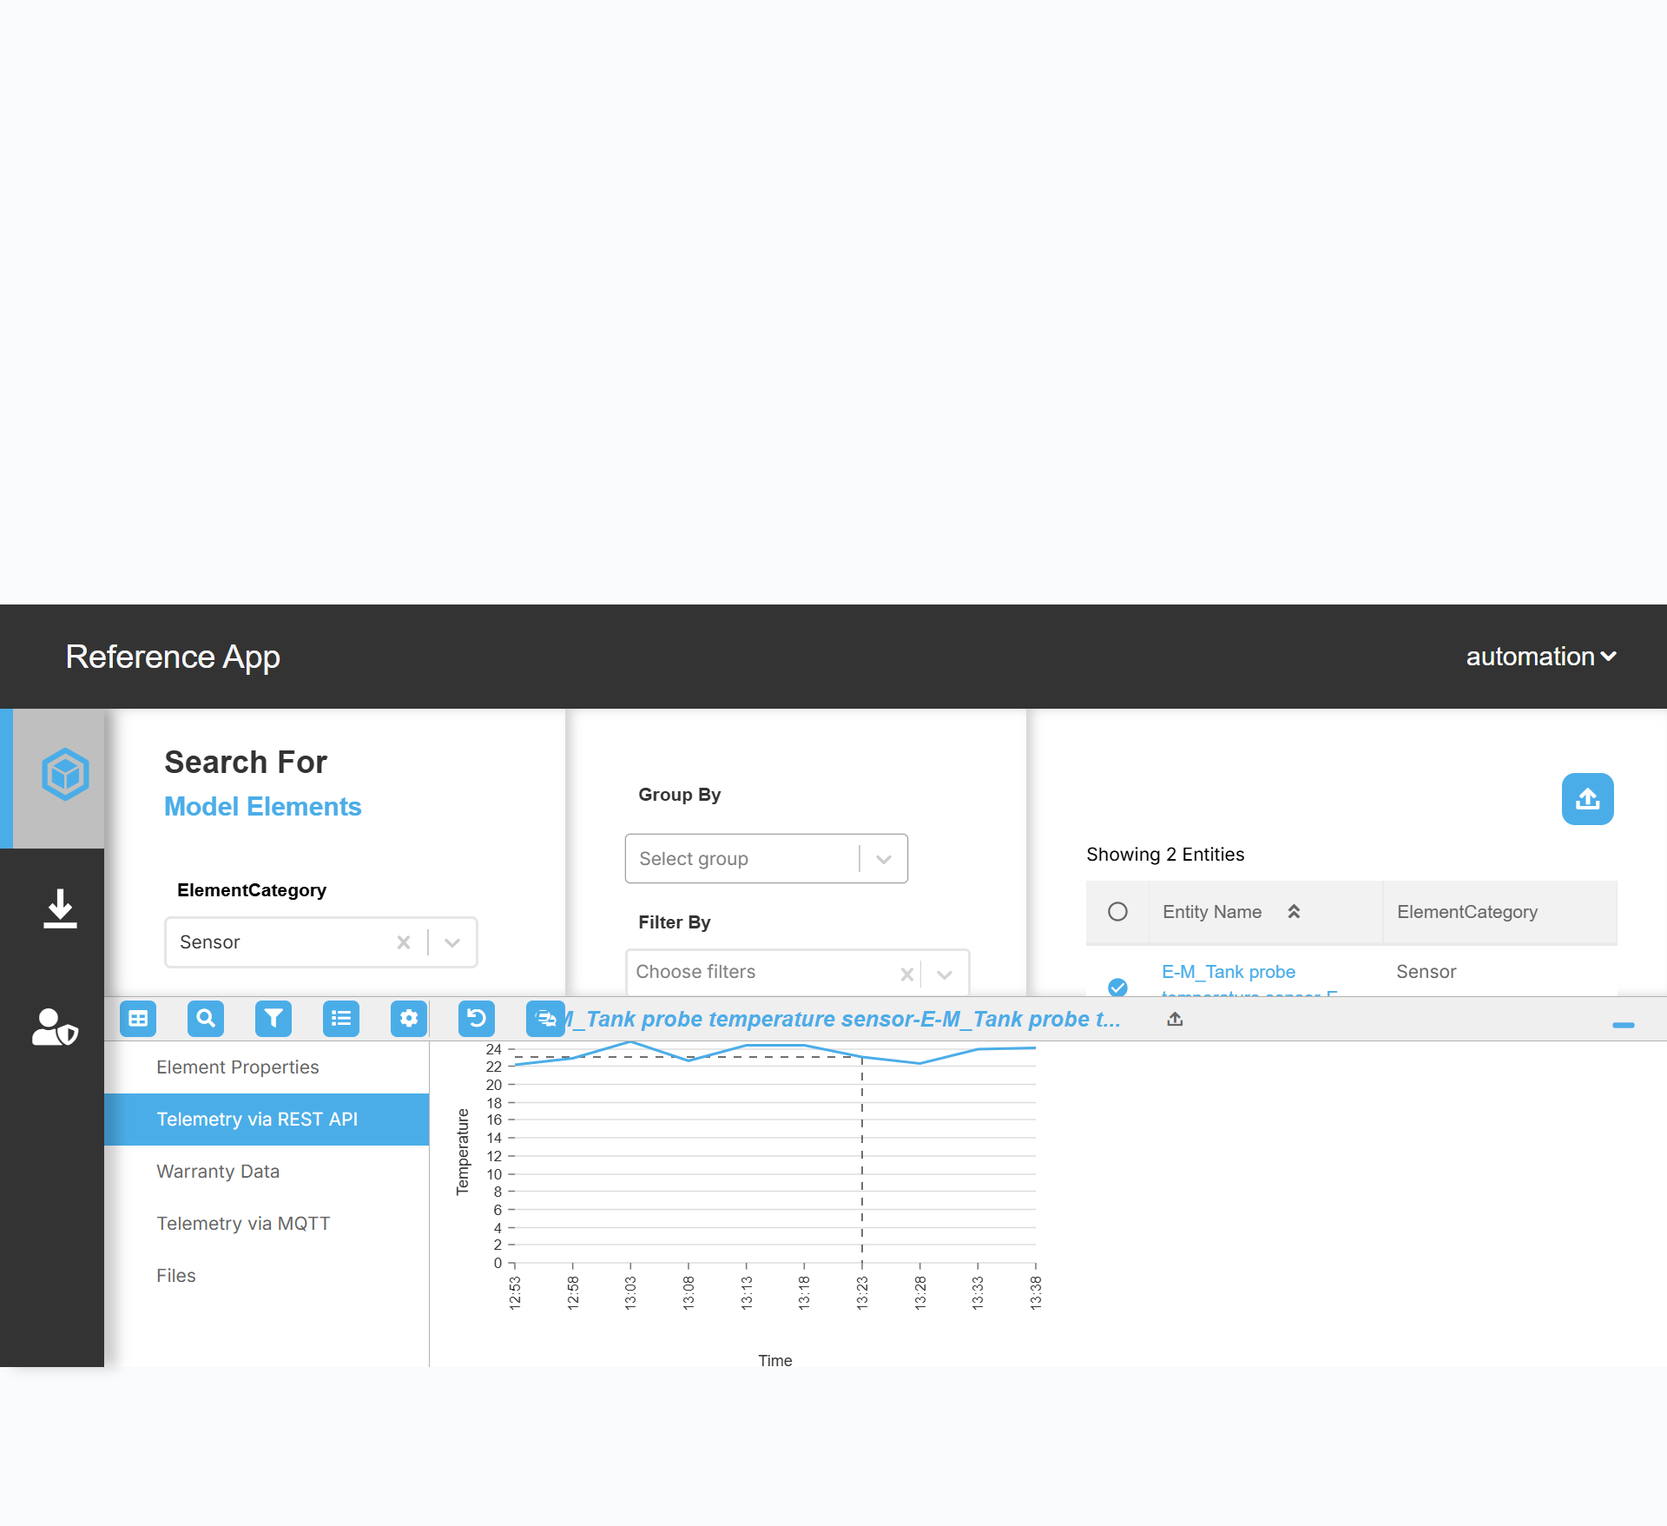
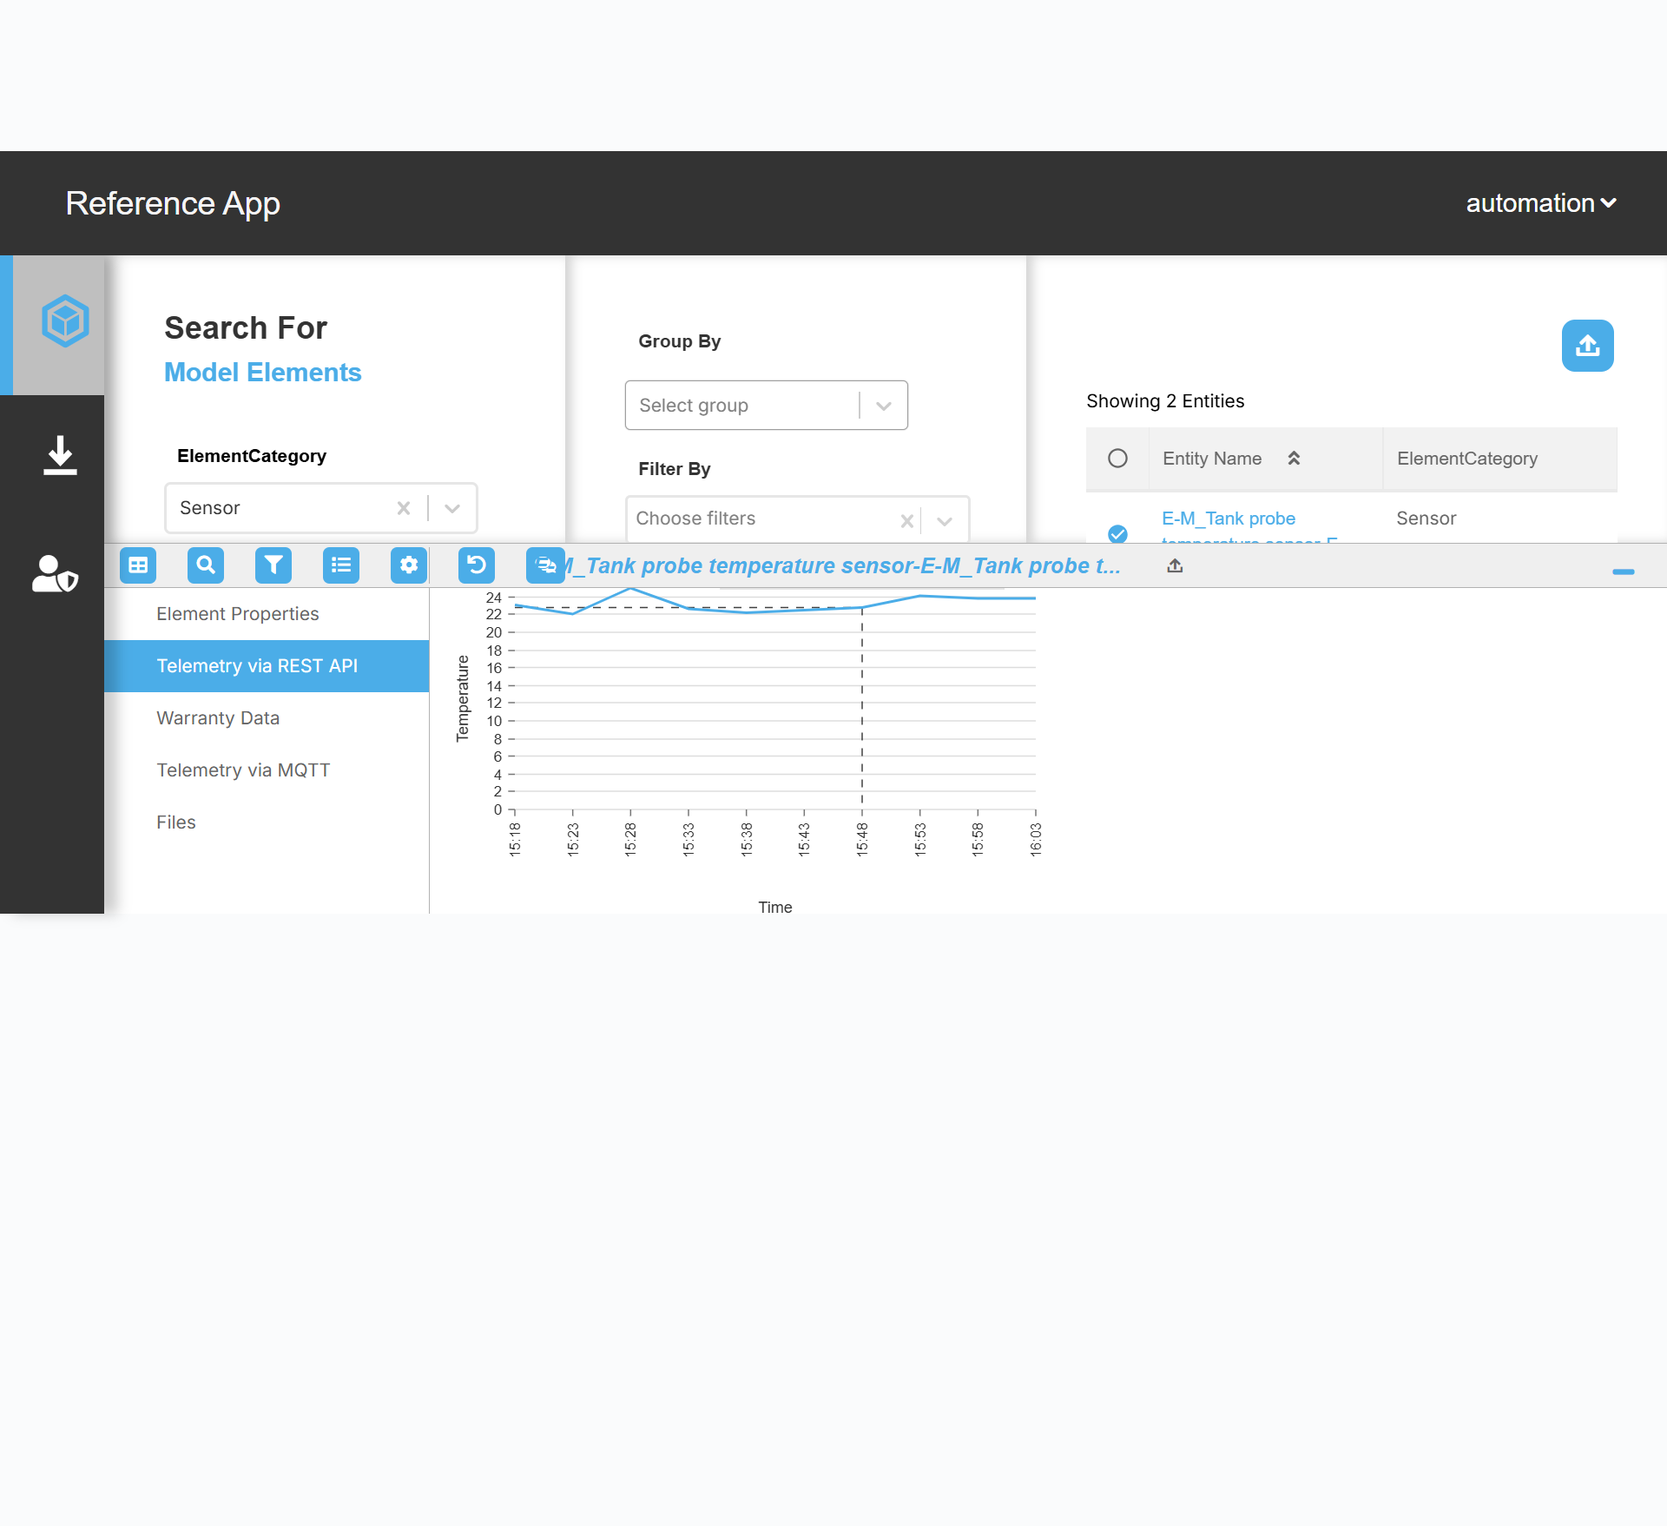
Add AI Chat functionality and related tests for energy predictions and BIM queries
Covers three scenarios: BIM Query Team chat response, Energy Prediction MCP
resource setup, and Energy Prediction Team chat response. The LLM secret key
is read from REFAPP_AI_CHAT_SECRET_KEY (.env, gitignored), never committed.

diff --git a/tests/reference-app/page/AIChatPage.ts b/tests/reference-app/page/AIChatPage.ts
@@ -1,0 +1,213 @@
+import { Page, Locator } from '@playwright/test';
+import { step } from 'allure-js-commons';
+
+// PA-1370/PA-1261 chat panel + PA-1269 setup status, both in the same Navigator settings dialog.
+export class AIChatPage {
+  private page: Page;
+
+  // Bottom toolbar comments icon, confirmed live.
+  private chatToggleIcon: Locator;
+
+  // Chat panel - confirmed live
+  private chatPanelHeading: Locator;
+  private noSecretKeyMessage: Locator;
+  private chatSettingsIcon: Locator;
+
+  // AI Chat Settings dialog - confirmed live
+  private settingsDialogHeading: Locator;
+  private llmSecretKeyTab: Locator;
+  private energyPredictionMcpTab: Locator;
+  private secretKeyInput: Locator;
+  private secretKeyUpdateButton: Locator;
+  private settingsDialogCloseButton: Locator;
+
+  // Energy Prediction MCP tab - confirmed live
+  private setupResourcesButton: Locator;
+  private refreshMcpTokensButton: Locator;
+  private getLatestReadingsButton: Locator;
+  private mcpSetupCompleteMessage: Locator;
+  private mcpTokensRefreshedMessage: Locator;
+  private mcpReadingsGeneratedMessage: Locator;
+
+  // Team selector (MUI Autocomplete) - confirmed live.
+  private teamSelect: Locator;
+
+  // Chat conversation area - confirmed live.
+  private chatInputBox: Locator;
+  private chatSendButton: Locator;
+  private chatMessageList: Locator;
+  private chatLatestResponse: Locator;
+
+  constructor(page: Page) {
+    this.page = page;
+
+    this.chatToggleIcon = page.locator("//i[@class='fas fa-comments']");
+
+    this.chatPanelHeading = page.getByRole('heading', { name: 'Model element chat' });
+    this.noSecretKeyMessage = page.getByText('No AI secret key found for this namespace');
+    this.chatSettingsIcon = page.locator('.ai-settings i.fa-cog');
+
+    this.settingsDialogHeading = page.getByRole('heading', { name: 'AI Chat Settings' });
+    this.llmSecretKeyTab = page.getByRole('tab', { name: 'LLM secret key' });
+    this.energyPredictionMcpTab = page.getByRole('tab', { name: 'Energy Prediction MCP' });
+    this.secretKeyInput = page.getByPlaceholder('Paste your LLM secret key here...');
+    this.secretKeyUpdateButton = page.getByRole('button', { name: 'Update' });
+    this.settingsDialogCloseButton = page.locator('button.closeButton');
+
+    this.setupResourcesButton = page.getByRole('button', { name: 'Setup Resources' });
+    this.refreshMcpTokensButton = page.getByRole('button', { name: 'Refresh MCP Server Tokens' });
+    this.getLatestReadingsButton = page.getByRole('button', { name: 'Get Latest Readings' });
+    this.mcpSetupCompleteMessage = page.getByText('MCP resources setup completed successfully');
+    this.mcpTokensRefreshedMessage = page.getByText('MCP server tokens update completed successfully');
+    this.mcpReadingsGeneratedMessage = page.getByText('Tool scripts update completed successfully');
+
+    this.teamSelect = page.getByPlaceholder('Select a Team');
+
+    this.chatInputBox = page.locator('textarea.chat-input');
+    this.chatSendButton = page.locator('.chat-input-bar .chat-send-btn');
+    this.chatMessageList = page.locator('.chat-display');
+    this.chatLatestResponse = page.locator('.chat-message-assistant').last();
+  }
+
+  private async logStep(message: string): Promise<void> {
+    console.log(message);
+    await step(message, async () => {});
+  }
+
+  async openChatPanel(): Promise<void> {
+    try {
+      await this.chatToggleIcon.waitFor({ state: 'visible' });
+      await this.chatToggleIcon.click();
+      await this.chatPanelHeading.waitFor({ state: 'visible' });
+      await this.logStep('INFO: Model element chat panel opened');
+    } catch (e) {
+      console.error('ERROR: Failed to open Model element chat panel');
+    }
+  }
+
+  async verifyChatPanelVisible(): Promise<void> {
+    await this.chatPanelHeading.waitFor({ state: 'visible' });
+    await this.logStep('PASS: Model element chat heading is visible');
+  }
+
+  async isSecretKeyConfigured(): Promise<boolean> {
+    return !(await this.noSecretKeyMessage.isVisible().catch(() => false));
+  }
+
+  async openSettings(): Promise<void> {
+    try {
+      await this.chatSettingsIcon.click();
+      await this.settingsDialogHeading.waitFor({ state: 'visible' });
+      await this.logStep('INFO: AI Chat Settings dialog opened');
+    } catch (e) {
+      console.error('ERROR: Failed to open AI Chat Settings dialog');
+    }
+  }
+
+  async openLlmSecretKeyTab(): Promise<void> {
+    await this.llmSecretKeyTab.click();
+    await this.secretKeyInput.waitFor({ state: 'visible' });
+  }
+
+  async openEnergyPredictionMcpTab(): Promise<void> {
+    await this.energyPredictionMcpTab.click();
+    await this.setupResourcesButton.waitFor({ state: 'visible' });
+  }
+
+  // Success message only appears in-session, right after this click.
+  async runSetupResources(timeout = 5 * 60 * 1000): Promise<void> {
+    await this.setupResourcesButton.click();
+    await this.mcpSetupCompleteMessage.waitFor({ state: 'visible', timeout });
+    await this.logStep('INFO: MCP resources setup completed successfully');
+  }
+
+  async runRefreshMcpTokens(timeout = 60000): Promise<void> {
+    await this.refreshMcpTokensButton.click();
+    await this.mcpTokensRefreshedMessage.waitFor({ state: 'visible', timeout });
+    await this.logStep('INFO: MCP server tokens refreshed successfully');
+  }
+
+  async runGetLatestReadings(timeout = 5 * 60 * 1000): Promise<void> {
+    await this.getLatestReadingsButton.click();
+    await this.mcpReadingsGeneratedMessage.waitFor({ state: 'visible', timeout });
+    await this.logStep('INFO: Latest readings generated successfully');
+  }
+
+  // secretKey comes from process.env.REFAPP_AI_CHAT_SECRET_KEY (.env, gitignored - never a tracked file). One-time per-namespace setup - guard callers with isSecretKeyConfigured().
+  async enterSecretKey(secretKey: string): Promise<void> {
+    if (!secretKey) {
+      throw new Error('enterSecretKey() requires a non-empty key sourced from an env var, not a literal.');
+    }
+    await this.secretKeyInput.fill(secretKey);
+    await this.secretKeyUpdateButton.click();
+    await this.logStep('INFO: LLM secret key submitted for this namespace');
+  }
+
+  async closeSettings(): Promise<void> {
+    await this.settingsDialogCloseButton.click();
+  }
+
+  // Opens dropdown then clicks the matching option - confirmed live.
+  async selectTeam(teamName: string): Promise<void> {
+    await this.teamSelect.click();
+    await this.page.getByRole('option', { name: teamName }).click();
+    await this.logStep(`INFO: Selected AI chat team "${teamName}"`);
+  }
+
+  async askQuestion(question: string): Promise<void> {
+    await this.chatInputBox.fill(question);
+    await this.chatSendButton.click();
+    await this.logStep(`INFO: Asked chat: "${question}"`);
+  }
+
+  // LLM + BIM query round trip can take 20-45s+.
+  async waitForResponse(timeout = 60000): Promise<string> {
+    await this.chatLatestResponse.waitFor({ state: 'visible', timeout });
+    return (await this.chatLatestResponse.textContent())?.trim() ?? '';
+  }
+
+  // Energy prediction responses render an actual mermaid xychart svg, not just text - confirmed live.
+  async responseHasChart(): Promise<boolean> {
+    return (await this.chatLatestResponse.locator('.mermaid-container svg').count()) > 0;
+  }
+
+  async responseHasHistoricalReference(): Promise<boolean> {
+    const text = await this.chatLatestResponse.textContent();
+    return /Based on:/i.test(text ?? '');
+  }
+
+  private static readonly MONTHS = ['january','february','march','april','may','june','july','august','september','october','november','december'];
+
+  // The "Date:" line's whole surrounding structure varies between calls - confirmed live in two shapes:
+  // ISO inline prose ("Date: 2026-08-22, Day: Saturday") and a long-form bullet ("Date: Saturday, August 22, 2026").
+  // Try ISO first since it needs no month-name lookup, then fall back to the long form. Returns YYYY-MM-DD or null.
+  extractPredictedDate(response: string): string | null {
+    const isoMatch = response.match(/Date:\s*(\d{4})-(\d{2})-(\d{2})/);
+    if (isoMatch) return `${isoMatch[1]}-${isoMatch[2]}-${isoMatch[3]}`;
+
+    const longMatch = response.match(/Date:\s*(?:[A-Za-z]+,\s*)?([A-Za-z]+)\s+(\d{1,2}),\s*(\d{4})/);
+    if (!longMatch) return null;
+    const monthIndex = AIChatPage.MONTHS.indexOf(longMatch[1].toLowerCase());
+    if (monthIndex === -1) return null;
+    const month = String(monthIndex + 1).padStart(2, '0');
+    const day = longMatch[2].padStart(2, '0');
+    return `${longMatch[3]}-${month}-${day}`;
+  }
+
+  // "Predicted consumption: X kWh" + "Range (±10%): LOW – HIGH kWh" - confirmed live (en dash between bounds).
+  extractPredictedConsumption(response: string): { value: number; rangeLow: number; rangeHigh: number } | null {
+    const valueMatch = response.match(/Predicted consumption:\s*([\d.]+)\s*kWh/);
+    const rangeMatch = response.match(/Range \(±10%\):\s*([\d.]+)\s*[–-]\s*([\d.]+)\s*kWh/);
+    if (!valueMatch || !rangeMatch) return null;
+    return { value: parseFloat(valueMatch[1]), rangeLow: parseFloat(rangeMatch[1]), rangeHigh: parseFloat(rangeMatch[2]) };
+  }
+
+  // The label wording before each historical kWh figure varies between calls - confirmed live in at
+  // least 4 forms ("Energy Consumption 125 kWh", "Energy Consumption: 167.9 kWh", "Energy: 147.6 kWh",
+  // plus varying historical date formats). Schema-only per team direction: don't chase label wording,
+  // just pull every "<number> kWh" figure out of the isolated "Based on:" section.
+  extractHistoricalConsumptionValues(response: string): number[] {
+    const section = response.split(/Based on:/i)[1]?.split(/Reasoning:/i)[0] ?? '';
+    return [...section.matchAll(/([\d.]+)\s*kWh/gi)].map(m => parseFloat(m[1]));
+  }
+}

diff --git a/tests/reference-app/spec/AIChatTest.ts b/tests/reference-app/spec/AIChatTest.ts
@@ -1,0 +1,96 @@
+import { Page } from '@playwright/test';
+import { expect } from '@playwright/test';
+import { HomePage } from '../page/HomePage';
+import { NavigatorPage } from '../page/NavigatorPage';
+import { AIChatPage } from '../page/AIChatPage';
+import testData from '../testdata/TestData.json';
+
+// N days from today, formatted YYYY-MM-DD - never hardcode a literal date.
+// The Energy Prediction feature only forecasts within the next 15 days (confirmed live:
+// asking for +20 days gets "I can only provide predictions for dates within the next 15 days").
+function daysFromNowIso(days: number): string {
+  const date = new Date();
+  date.setDate(date.getDate() + days);
+  return date.toISOString().slice(0, 10);
+}
+
+export class AIChatTest {
+  private page: Page;
+
+  constructor(page: Page) {
+    this.page = page;
+  }
+
+  // Scenario 1: switch to the EX model, activate LLM key (or close settings if already activated), then BIM Query Team + prompt + validate response.
+  async verifyBimQueryTeamChatResponse(): Promise<void> {
+    const hp = new HomePage(this.page);
+    const navigator = new NavigatorPage(this.page);
+    const chat = new AIChatPage(this.page);
+
+    await hp.selectElementMenu();
+    await hp.selectNavigatorScreen();
+    await navigator.ensureModelExSelected();
+    await chat.openChatPanel();
+    await chat.openSettings();
+    await chat.openLlmSecretKeyTab();
+
+    if (!(await chat.isSecretKeyConfigured())) {
+      await chat.enterSecretKey(process.env.REFAPP_AI_CHAT_SECRET_KEY ?? '');
+    }
+    await chat.closeSettings();
+
+    await chat.selectTeam('BIM Query Team');
+    await chat.askQuestion(testData.AIchat.BimQueryQuestion);
+    const response = await chat.waitForResponse();
+    expect(response.length, 'Expected a non-empty AI chat response').toBeGreaterThan(0);
+    expect(response, 'Expected no error in AI chat response').not.toContain('Request Failed');
+  }
+
+  // Scenario 2: Energy Prediction MCP tab - Setup Resources, Refresh MCP Server Tokens, Get Latest Readings, then close.
+  async verifyEnergyPredictionMcpSetup(): Promise<void> {
+    const chat = new AIChatPage(this.page);
+    await chat.openSettings();
+    await chat.openEnergyPredictionMcpTab();
+    await chat.runSetupResources();
+    await chat.runRefreshMcpTokens();
+    await chat.runGetLatestReadings();
+    await chat.closeSettings();
+  }
+
+  // Scenario 3: Energy Prediction Team + energy prompt + validate response. Reload first - PA-1594's own AC notes AiPrompt doesn't see a newly created team without a refresh.
+  async verifyEnergyPredictionChatResponse(): Promise<void> {
+    await this.page.reload();
+    const chat = new AIChatPage(this.page);
+    await chat.openChatPanel();
+    await chat.selectTeam('Energy Prediction Team');
+    const expectedDate = daysFromNowIso(10);
+    const question = testData.AIchat.EnergyPredictionQuestionTemplate.replace('{date}', expectedDate);
+    await chat.askQuestion(question);
+    const response = await chat.waitForResponse();
+
+    expect(response, 'Expected a kWh prediction value').toContain('kWh');
+    expect(response, 'Expected a ±10% range').toMatch(/Range.*±10%/i);
+    expect(await chat.responseHasChart(), 'Expected a rendered Mermaid line chart in the response').toBeTruthy();
+    expect(await chat.responseHasHistoricalReference(), 'Expected a "Based on" historical reference section').toBeTruthy();
+
+    // 1. Predicted date must equal the date actually requested, not just mention a date.
+    const predictedDate = chat.extractPredictedDate(response);
+    expect(predictedDate, 'Expected a parseable "Date:" line in the response').not.toBeNull();
+    expect(predictedDate, `Expected the AI to predict for ${expectedDate} (the date requested)`).toBe(expectedDate);
+
+    // 2. Schema-only checks: the actual kWh figures vary run to run (weather/model-dependent),
+    // so only confirm the expected fields are present and well-formed - don't assert on their values.
+    const consumption = chat.extractPredictedConsumption(response);
+    expect(consumption, 'Expected parseable "Predicted consumption" and "Range (±10%)" lines').not.toBeNull();
+    if (consumption) {
+      const { value, rangeLow, rangeHigh } = consumption;
+      expect(Number.isFinite(value) && value > 0, `Predicted consumption should be a positive number, got ${value}`).toBe(true);
+      expect(Number.isFinite(rangeLow) && rangeLow > 0, `Range lower bound should be a positive number, got ${rangeLow}`).toBe(true);
+      expect(Number.isFinite(rangeHigh) && rangeHigh > rangeLow, `Range upper bound should be a positive number greater than the lower bound, got ${rangeHigh}`).toBe(true);
+
+      const historicalValues = chat.extractHistoricalConsumptionValues(response);
+      expect(historicalValues.length, 'Expected at least one historical "Based on" consumption figure').toBeGreaterThan(0);
+      expect(historicalValues.every(v => Number.isFinite(v) && v > 0), `Expected every historical consumption figure to be a positive number, got ${JSON.stringify(historicalValues)}`).toBe(true);
+    }
+  }
+}

diff --git a/tests/reference-app/spec/RunnerClass.spec.ts b/tests/reference-app/spec/RunnerClass.spec.ts
@@ -9,6 +9,7 @@ import { FilesMenuTest }               from './FilesMenuTest';
 import { AdminUserGroupTest }          from './AdminUserGroupTest';
 import { ManageModelTest }             from './ManageModelTest';
 import { GenericRestConnectorTest }    from './GenericRestConnectorTest';
+import { AIChatTest }                  from './AIChatTest';
 
 import { Browser, BrowserContext, Page } from '@playwright/test';
 
@@ -162,6 +163,24 @@ test.describe('Reference App Suite', () => {
     test('20 - Verify Connector', async () => {
       const grcTest = new GenericRestConnectorTest(sharedPage);
       await grcTest.verifyGenericRestConnector();
+    });
+  });
+
+  // ── AI Chat (PA-1261/PA-1370/PA-1594) ───────────────────────────────────────
+  test.describe('AI Chat', () => {
+    test('21 - Verify BIM Query Team Chat Response', async () => {
+      const chatTest = new AIChatTest(sharedPage);
+      await chatTest.verifyBimQueryTeamChatResponse();
+    });
+
+    test('22 - Verify Energy Prediction MCP Setup', async () => {
+      const chatTest = new AIChatTest(sharedPage);
+      await chatTest.verifyEnergyPredictionMcpSetup();
+    });
+
+    test('23 - Verify Energy Prediction Team Chat Response', async () => {
+      const chatTest = new AIChatTest(sharedPage);
+      await chatTest.verifyEnergyPredictionChatResponse();
     });
   });
 

diff --git a/tests/reference-app/page/NavigatorPage.ts b/tests/reference-app/page/NavigatorPage.ts
@@ -171,6 +171,33 @@ export class NavigatorPage {
     }
   }
 
+  // AI Chat scenarios need the EX model - confirmed live as "EX11034-INV-Federated" in the Models dropdown.
+  async ensureModelExSelected(
+    modelName: string = 'EX11034-INV-Federated'
+  ): Promise<void> {
+    try {
+      await this.navigatorModelSearchTable.waitFor({ state: 'visible', timeout: 15000 });
+      await this.navigatorModelSearchTable.click();
+
+      await this.navigatorCurrentModelValue.waitFor({ state: 'visible', timeout: 15000 });
+      const currentModel = (await this.navigatorCurrentModelValue.textContent())?.trim() ?? '';
+
+      if (currentModel.includes('EX')) {
+        await this.logStep(`INFO: Model already set to "${currentModel}", skipping model switch`);
+        return;
+      }
+
+      await this.navigatorModelSelectDropdown.click();
+      await this.selectFromReactSelect(modelName);
+
+      await this.navigatorChangeModelButton.click();
+      await this.waitUntilLoadingDisappear();
+      await this.logStep(`PASS: Switched model from "${currentModel}" to "${modelName}"`);
+    } catch (e: any) {
+      console.error('ERROR: Unable to ensure EX model selected:', e.message);
+    }
+  }
+
   async clickNavigatorSearch(): Promise<void> {
     try {
       await this.navigatorSearch.waitFor({ state: 'visible' });

diff --git a/playwright.config.ts b/playwright.config.ts
@@ -1,4 +1,7 @@
 import { defineConfig } from '@playwright/test';
+import dotenv from 'dotenv';
+import path from 'path';
+dotenv.config({ path: path.resolve(__dirname, '.env') });
 import config from './tests/reference-app/testdata/config.json';
 
 type EnvKey = keyof typeof config.Environments;
